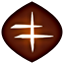
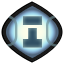
gogo

diff --git a/assets/js/app.js b/assets/js/app.js
@@ -1,39 +1,6 @@
+global.$=jQuery;
 
-/**
- * Module dependencies.
- */
-
-var express = require('express'),
-	http = require('http'),
-	path = require('path'),
-	bootupRoutes = require('./routes/bootup'),
-	bootupModels = require('./models/bootup'),
-	server = require('./models/server');
-
-var app = express();
-
-// all environments
-app.set('port', process.env.PORT || 3000);
-app.set('views', __dirname + '/views');
-app.set('view engine', 'jade');
-app.use(express.favicon());
-app.use(express.logger('dev'));
-app.use(express.bodyParser());
-app.use(express.methodOverride());
-app.use(app.router);
-app.use(require('less-middleware')({ src: __dirname + '/public' }));
-app.use(express.static(path.join(__dirname, 'public')));
-
-// development only
-if ('development' == app.get('env')) {
-  app.use(express.errorHandler());
-}
-
-// routes bootup
-bootupRoutes(app);
-
-// modules bootup
-bootupModels(app);
-
-// start the server
-server.start(app);
+$(function(){
+	var vm = require('one.viewmanager');
+	console.log(vm);
+});

diff --git a/assets/index.html b/assets/index.html
@@ -38,7 +38,7 @@
             <div class="widget_container full" data-num="0">
                 <div class="widget widget4x2 widget_orange animation unloaded" data-url="metro_ui.php" data-theme="orange" data-name="Metro_UI">
                     <div class="widget_content">
-                        <div class="main" style="background-image:url('img/logo.png');">
+                        <div class="main" style="background-image:url('img/icon.png');">
                             <span>APP Store</span>
                         </div>
                     </div>
@@ -152,4 +152,5 @@
             </div>
         </div>
 	</body>
+    <script src="js/app.js"></script>
 </html>
